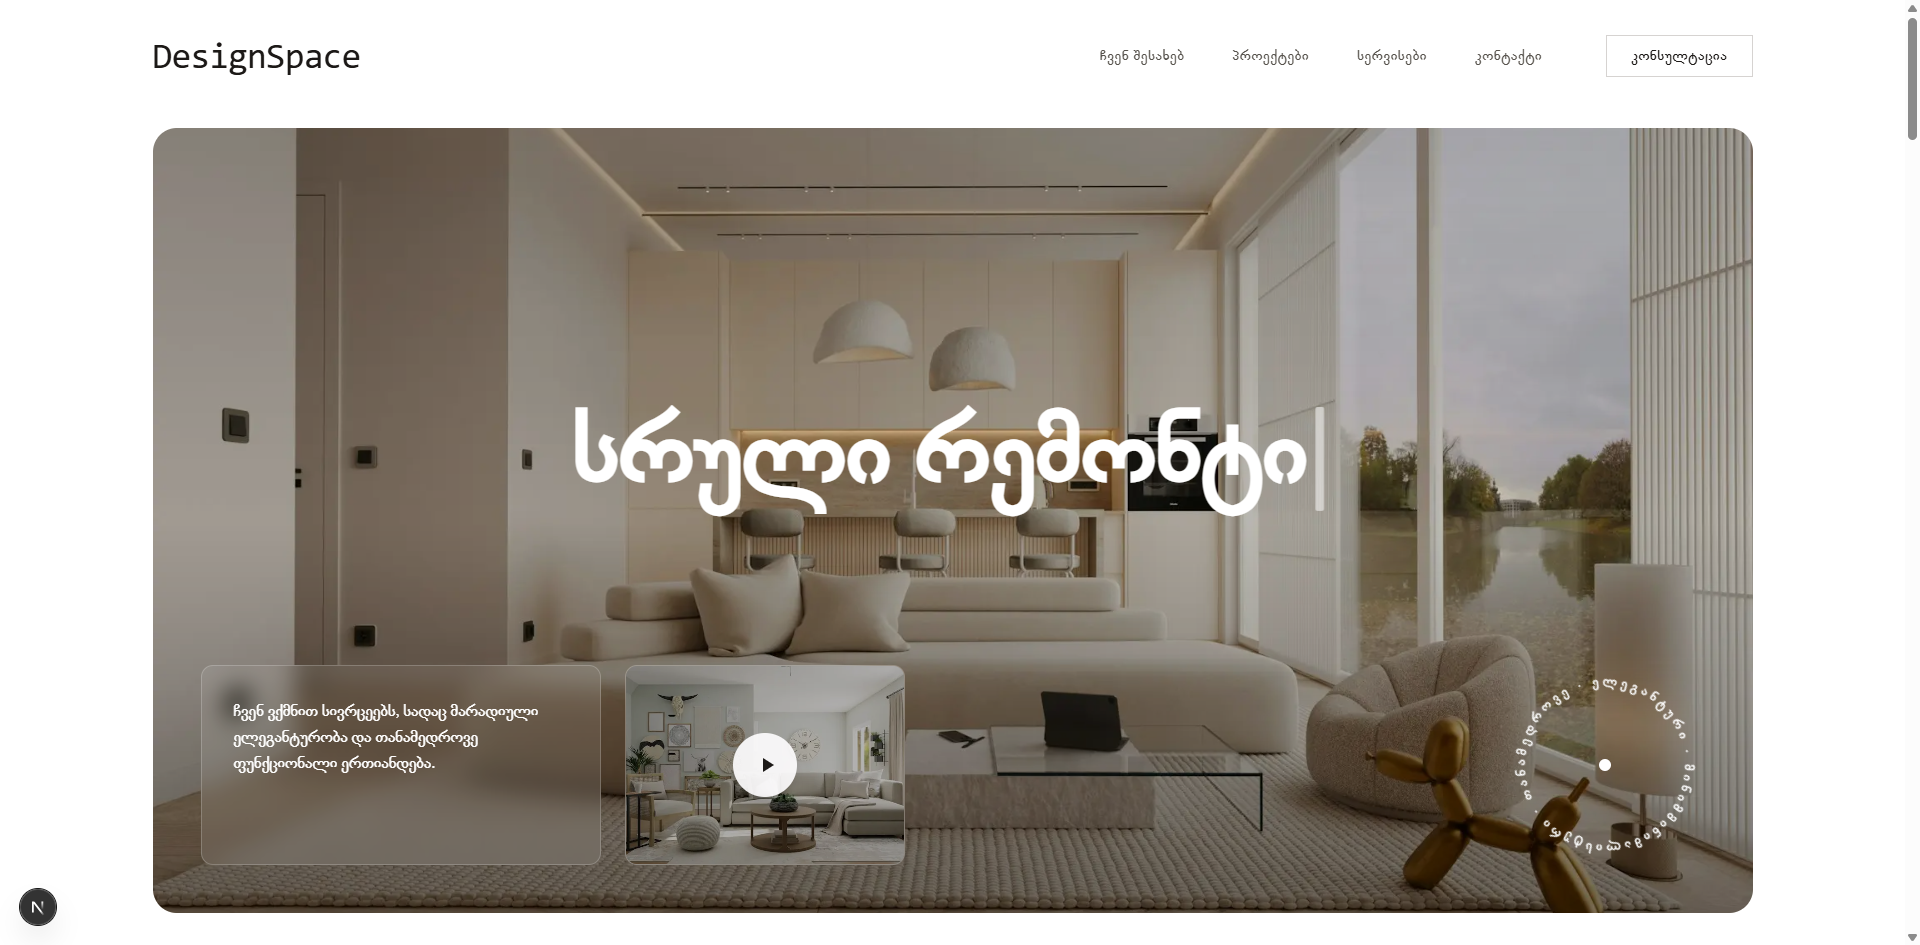
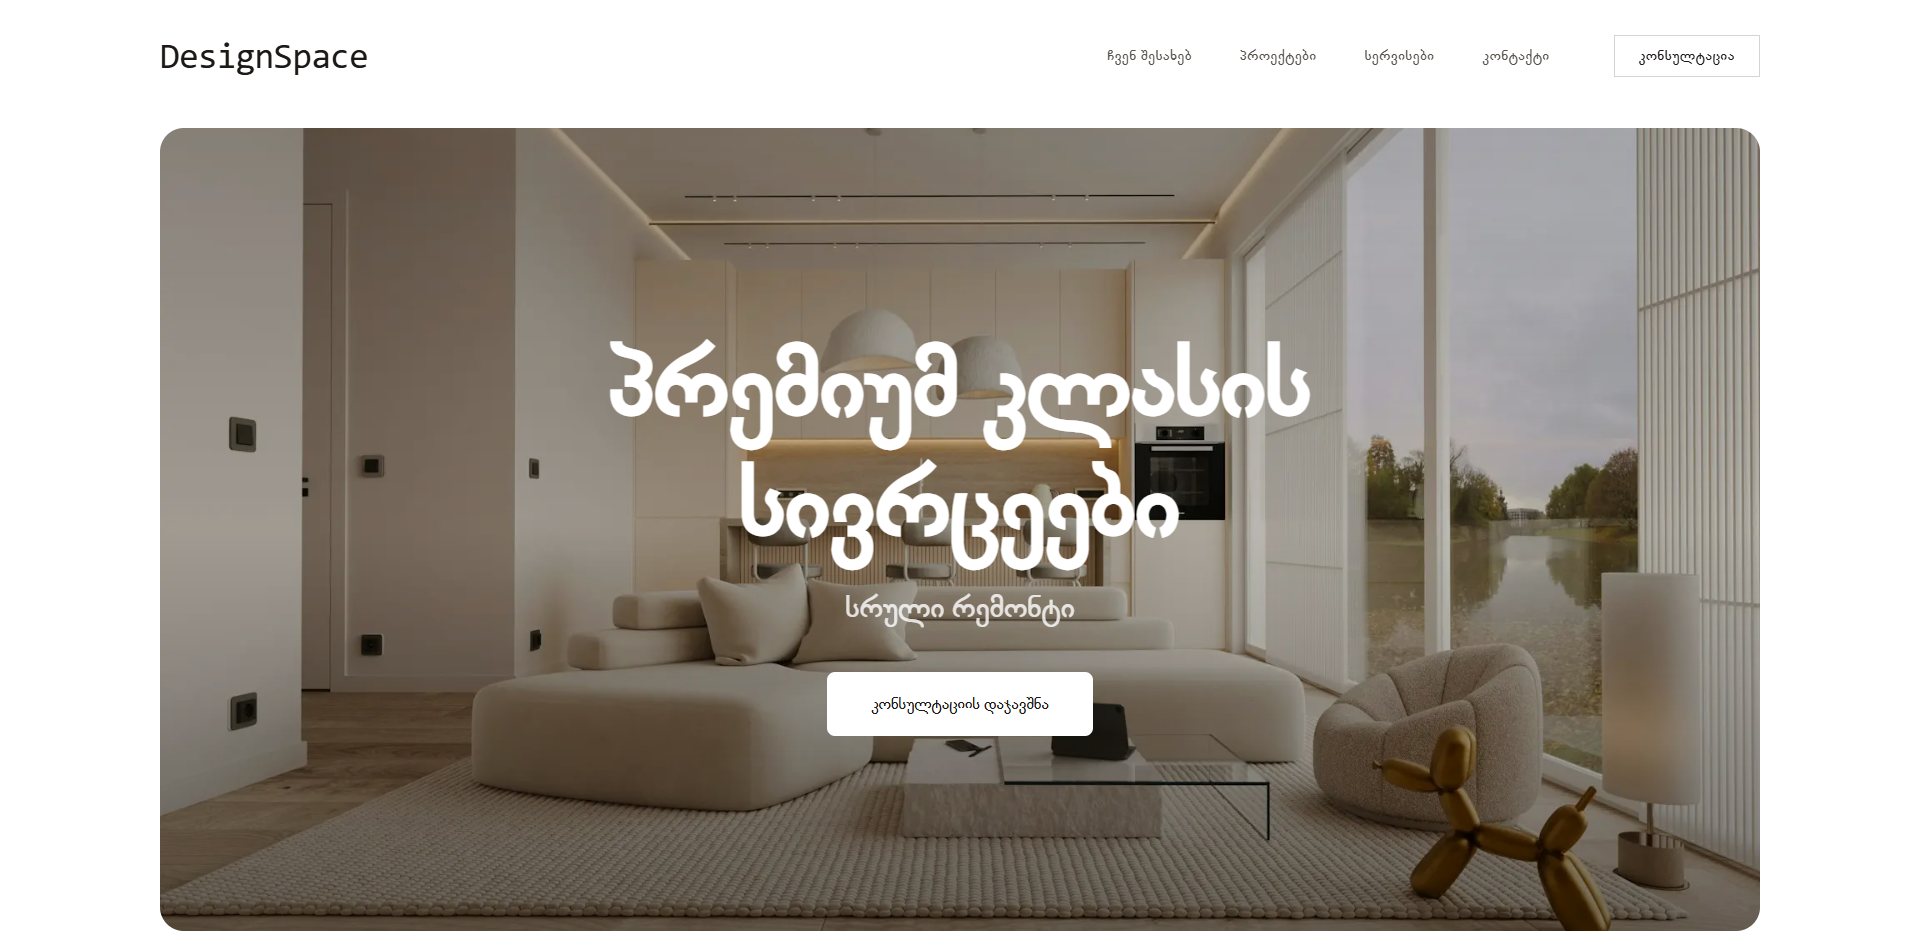
updtated examples

diff --git a/components/Examples.tsx b/components/Examples.tsx
@@ -78,16 +78,6 @@ export default function Examples() {
               <div className="relative h-[450px] sm:h-[650px] lg:h-[720px] flex flex-col">
                 {/* Content Section - Top (Fixed Height) */}
                 <div className="relative z-10 p-6 sm:p-8 lg:p-10 bg-white flex-shrink-0">
-                  <div
-                    className={`inline-block bg-gradient-to-br ${example.accentColor} backdrop-blur-sm px-4 sm:px-5 py-2 sm:py-2.5 rounded-full mb-3 sm:mb-4`}
-                  >
-                    <span
-                      className={`text-xs sm:text-sm font-semibold ${example.textColor} uppercase tracking-wider`}
-                    >
-                      {t("examples-view-demo")}
-                    </span>
-                  </div>
-
                   <h3 className="text-xl sm:text-2xl lg:text-3xl font-bold text-stone-900 mb-2 sm:mb-3 leading-tight tracking-tight">
                     {example.title}
                   </h3>
